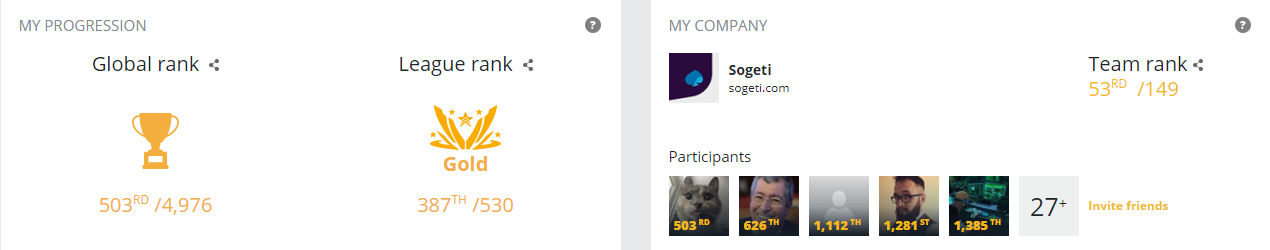
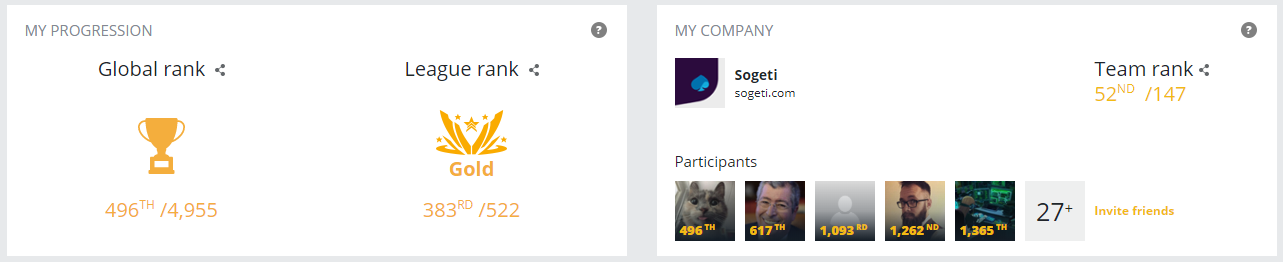
update readme

diff --git a/README.md b/README.md
@@ -1,1 +1,79 @@
-# spring-challenge-2020
+# Overview
+The Spring Challenge is a coding competition on [CodinGame](https://www.codingame.com/home). The 2020 session was a 11 days challenge from the 7th to the 18th of May. The subject was to code the logic of a Pacman-like bot to make decisions and beat an adversary on 1 versus 1 game. The competition is entirely online and the players can submit their new code as many times as they want.
+
+
+# Rules
+## The ranking system
+Each participant competes on an individual ranking system but can also participate with a team if they add their university or company on their CodinGame profile. The team ranking system is based on the 5 best players to calculate the team score.
+
+The ranking is cut out in leagues :
+<img src="assets/leagues.png" alt="Leagues" width="100%"/>
+
+All the players start in the Wood II league at the beginning.
+
+Once the code is submitted, the player automatically plays games (even if disconnected) against the other players in the same league. The more games won, the higher the player climb. 
+
+Each league (except Legend) has a bot in it that the players need to beat to get to the superior league. To beat the bot, you have to be ranked above it by beating more players than it in your league. Once you are above the bot, a few minutes later you'll pass to the next league.
+
+
+## The code
+The players can choose the language they want to use for the competition among many available languages. There is only one file where the player can code before submitting it.
+
+A player can't copy the code of another player or they will be both disqualified of the competition. You still can exchange some ideas with your teams or help other players to fix bugs in their code.
+
+## The game
+The game is based on the famous Pacman game.
+<img src="assets/game-board.png" alt="Game board" width="100%"/>
+<img src="assets/game-board-2.png" alt="Game board" width="100%"/>
+
+In order to win a game, you have to get more score than your opponent. You get 1 point for each pellet you eat with a pac and 10 points for the big ones. If both players have the same score, it's a tie.
+
+The game is a turn by turn, for each turn the player receives the current data from the input console and send the next moves in the output console.
+
+If you fail to provide the next action within the time limit of the turn, you will timeout and you may lose the game. The first round has a 1000 ms limit and the next ones have a 50 ms limit.
+Plus there is a maximum of 200 turns for a game, the player with the biggest score win then.
+
+A player can also watch any game that was played to debug your code or improve his strategy.
+
+In the first league (Wood I), you have only one pac to command and you can see all the board with all the pellets, your pac and the enemy pac. There are collisions between pacs and they can't go through another pac.
+
+Some leagues add new rules :
+
+- Wood II : 
+  - You will start with more pacs (between 2 and 5)
+  
+- Bronze : 
+  - The pacs now have a type (rock, paper or scissors), if a pac collides with an enemy pac, it may eat it (rock > scissors > paper > rock). The pacs can still collide if they have the same type or if they are on the same team.
+  
+  - The pacs are able to use two abilities.
+    - Switch allows the pac to change its type (you have to chose which one).
+    - Speed will boost the pac by giving the possibility of moving of 2 cases each turn for the 5 next turns. 
+  
+    When a pac uses an ability, it can't move during the next turn and a 10 turns cooldown is applied before being able to use the next ability.
+
+  - You still can "see" the shape of the map and the big pellets all the time but you will be able to see the small pellets and enemies only if they are in the vision of one of your alive pac. The vision works in line from your pac and is blocked by walls.
+
+- Silver
+  - The type of a pac will now indicate "DEAD" when it's been eaten by an enemy.
+
+# My competition
+## The experience
+
+I decided to use the Java language because it's the language I'm the most familiar with as a back developer. 
+
+My strategy was to see the map as pipes and intersections that I would detect and save on the first round (because we have more calculations time in this round). Basically, if a case has more than 2 possible way out, it's an intersection, otherwise it's part of a pipe. That allowed me to reduce the chances of blocking my pacs in the same intersection or pipe by giving priority to the first entering it.
+
+Another point was to focus big pellets at the early game, on the first round I calculate the most efficient way to pick them up for each pac (ally and enemy) to focus only the one I'm sure to get and with the closest pac (2 big pellets deep calculations). I define theses big pellets as main target to the closest pac and it won't target anything else before the big pellet is gone.
+
+Some of the pacs won't have any big pellets close enough, for them, I decided to find a big pipe without dead end and close enough and let them focus on it at the beginning. When a pac has complete its early objectives, it will be just targeting the closest pellet not targeted yet by another pac.
+
+For the rock/paper/scissors battles, I found out that attacking isn't a great option most of the time, then I the fights on defense and I gave priority to boosting when it's safe enough to get the pellets faster and increase the score.
+
+## The results
+I have been ranked 496th and I've been able to reach the Gold league.
+
+With Sogeti, we were able to reach the 52nd position of the team ranking. 
+
+<img src="assets/results.png" alt="Results" width="100%"/>
+
+Since I am a web developer and coding IA/games is not at all part of what I do in my job, I'm pretty satisfied with theses results and I will probably participate in the next CodinGame competitions.
